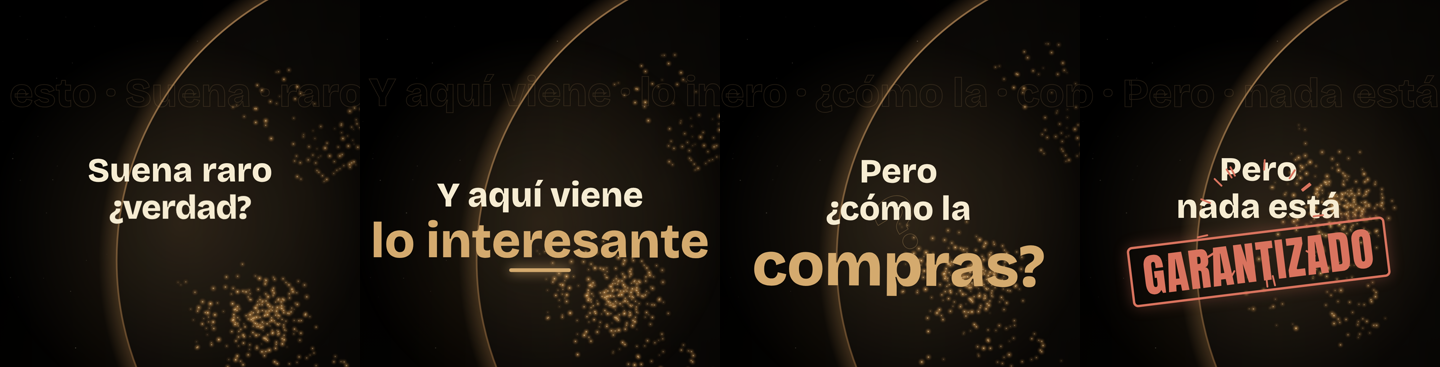
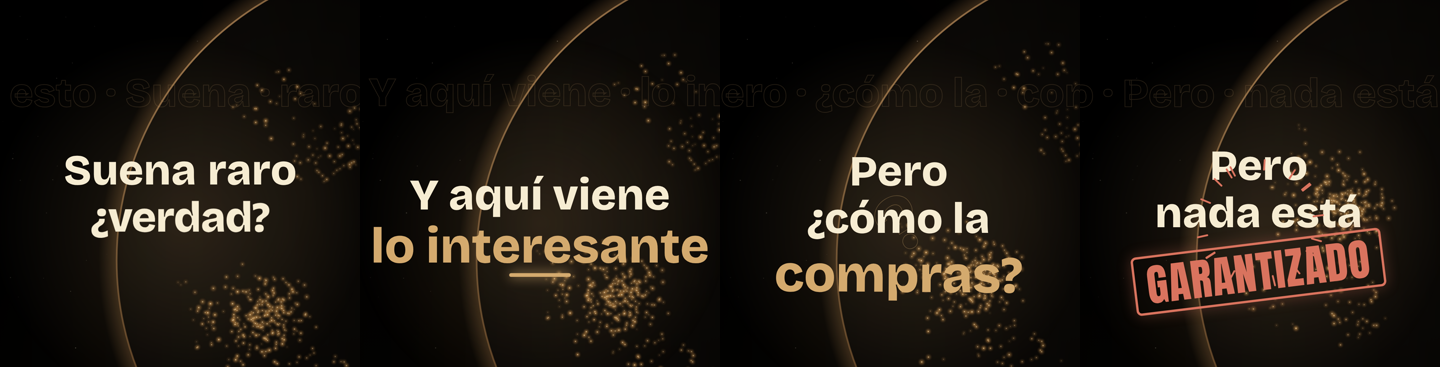
Reel acción: diferencia de tamaño sutil entre palabras blancas y de color
Claude-Session: https://claude.ai/code/session_01Usms2r7kyNP6cbVRcrKfdD

diff --git a/reels/que-es-una-accion/proyecto/src/propias/Texto.tsx b/reels/que-es-una-accion/proyecto/src/propias/Texto.tsx
@@ -220,8 +220,8 @@ const Kinetico: React.FC<PropsEscena> = ({ p, b, dur }) => {
   const color = (k: number) => DORADOS.includes(efectos[k]) || efectos[k] === "sello";
   const tams = lineasV.map((l, k) =>
     color(k)
-      ? encajar(l.join(" "), efectos[k] === "sello" ? 760 : 900, (efectos[k] === "enorme" ? 290 : efectos[k] === "sello" ? 120 : 165) * esc * (clave(k) ? 1.3 : 1), fuenteL(k))
-      : Math.min(...lineasV.map((m, j) => (color(j) ? 999 : encajar(m.join(" "), 860, 92, fuenteL(j))))),
+      ? encajar(l.join(" "), efectos[k] === "sello" ? 760 : 900, (efectos[k] === "enorme" ? 290 : efectos[k] === "sello" ? 115 : 140) * esc * (clave(k) ? 1.3 : 1), fuenteL(k))
+      : Math.min(...lineasV.map((m, j) => (color(j) ? 999 : encajar(m.join(" "), 860, 116, fuenteL(j))))),
   );
   const alto = tams.reduce((s, t, k) => s + t * (efectos[k] === "sello" ? 1.25 : 1.1), 0);
   const ultimo = b.length ? b[b.length - 1] : 0;
